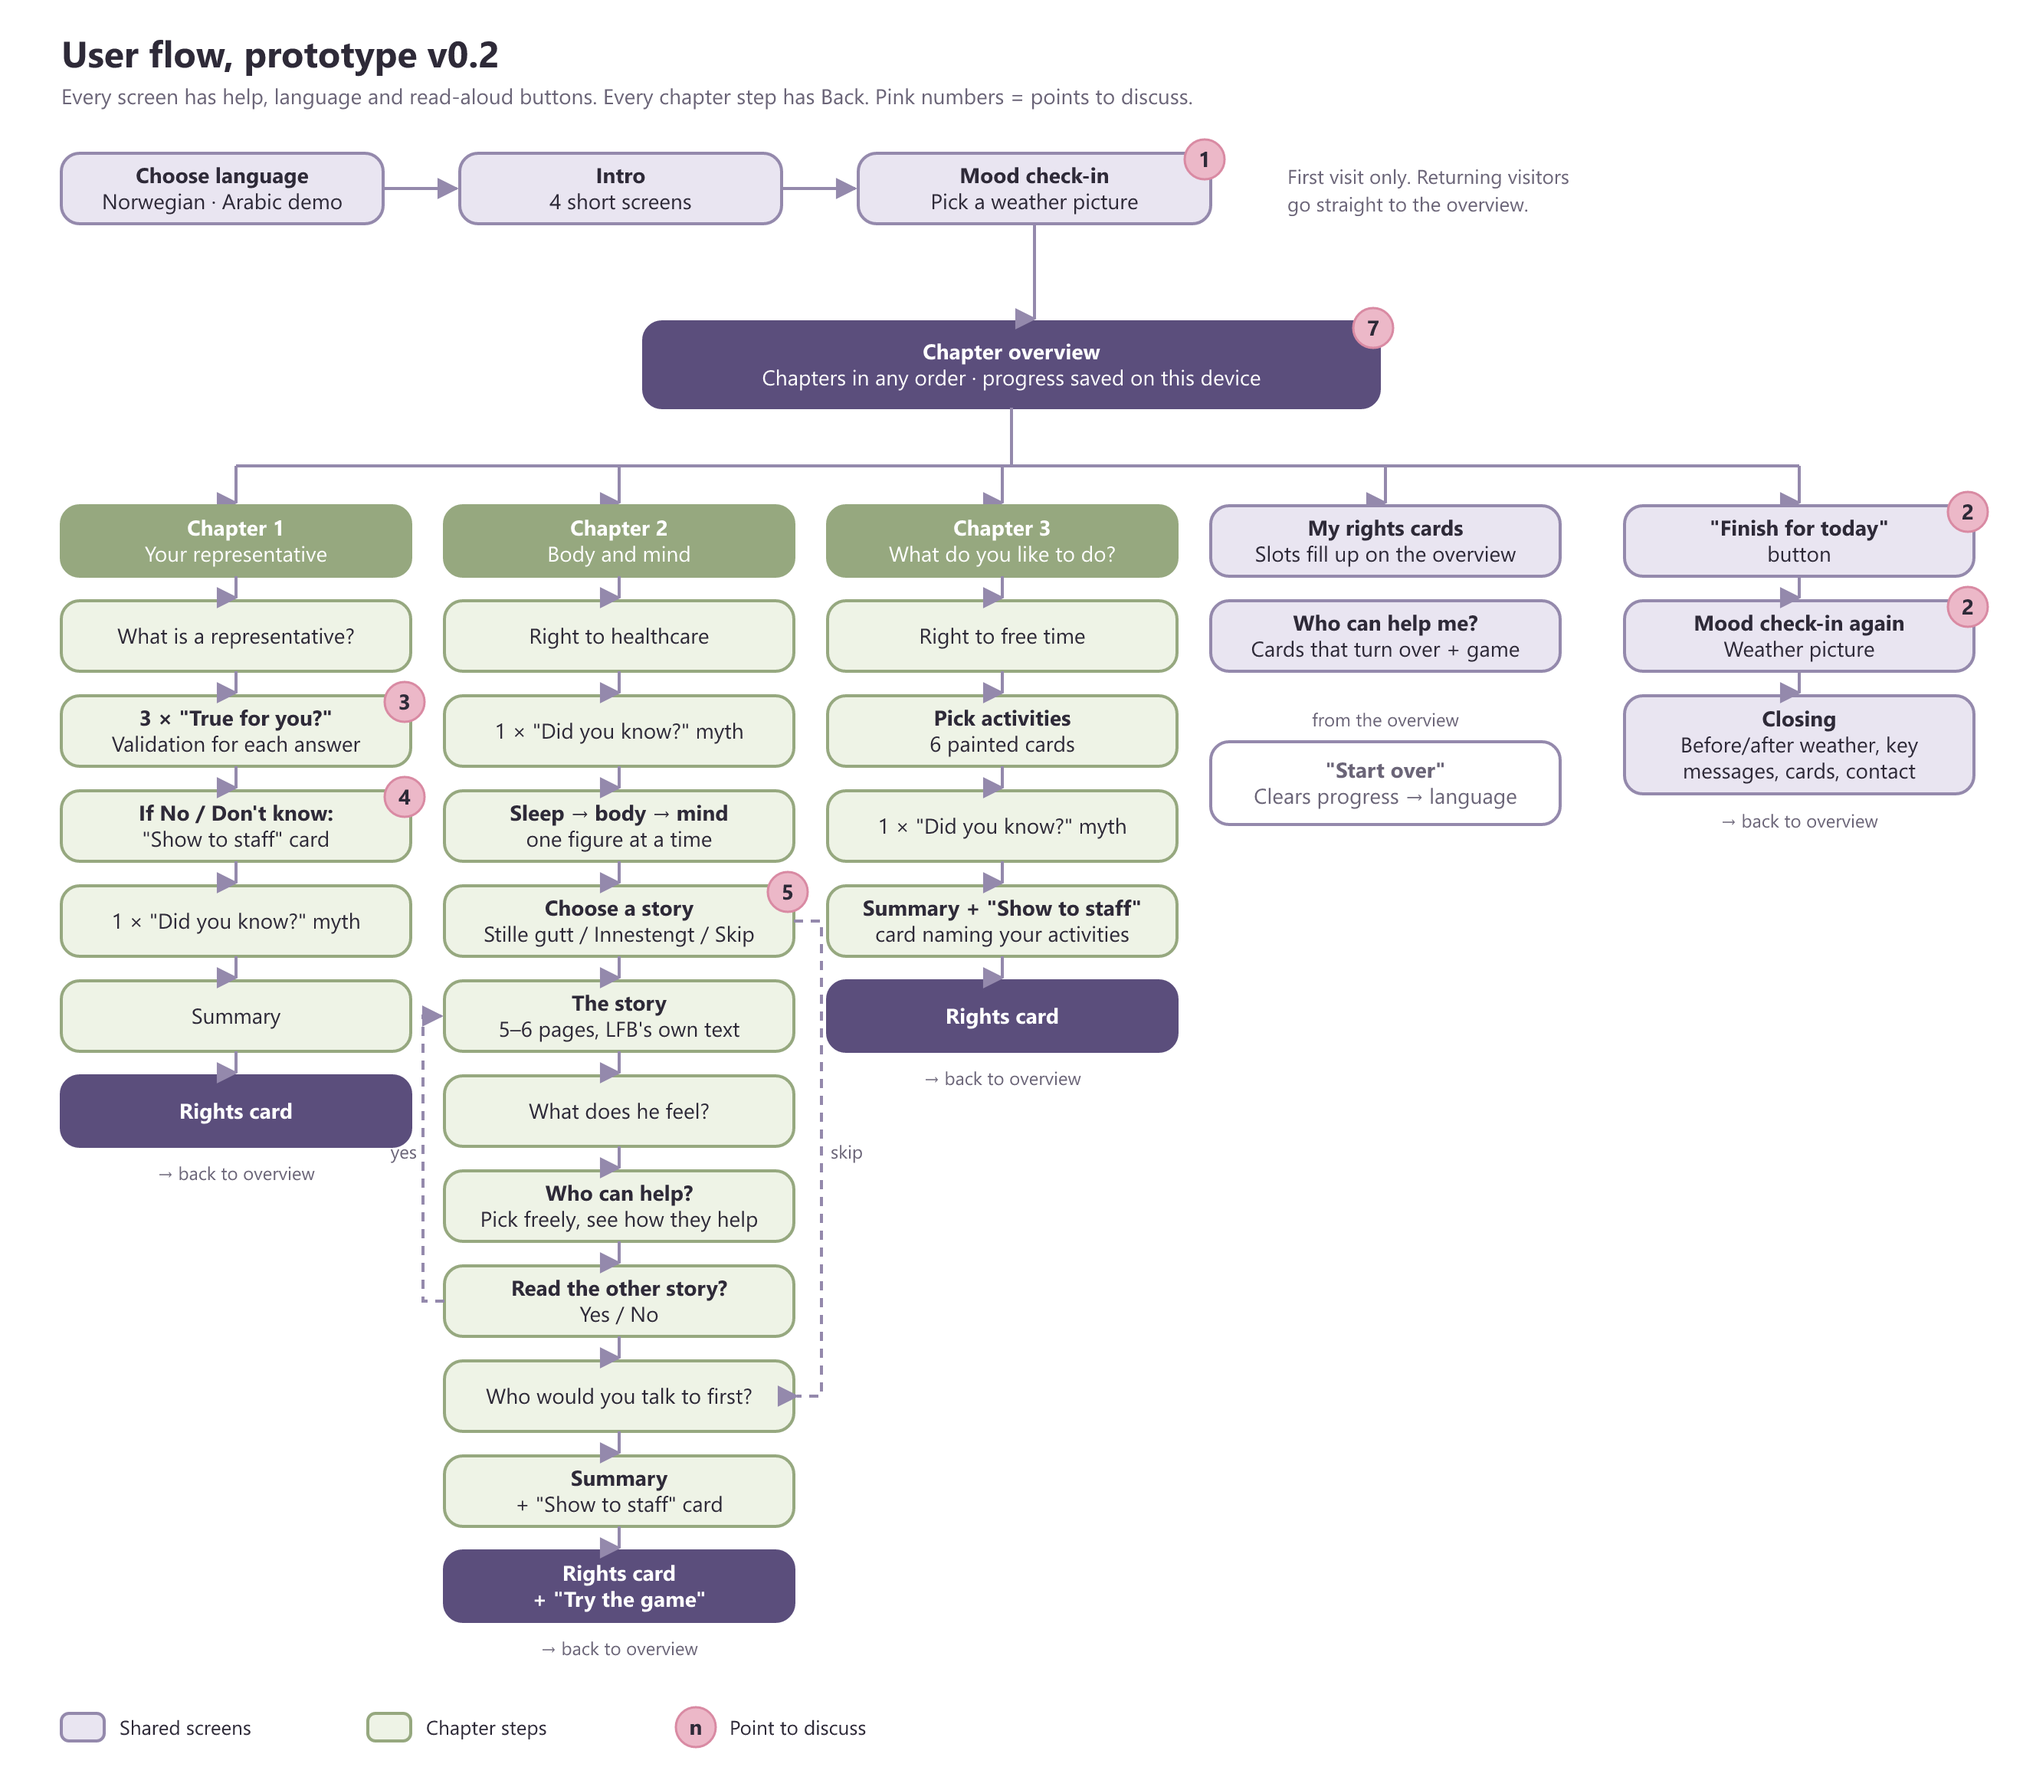
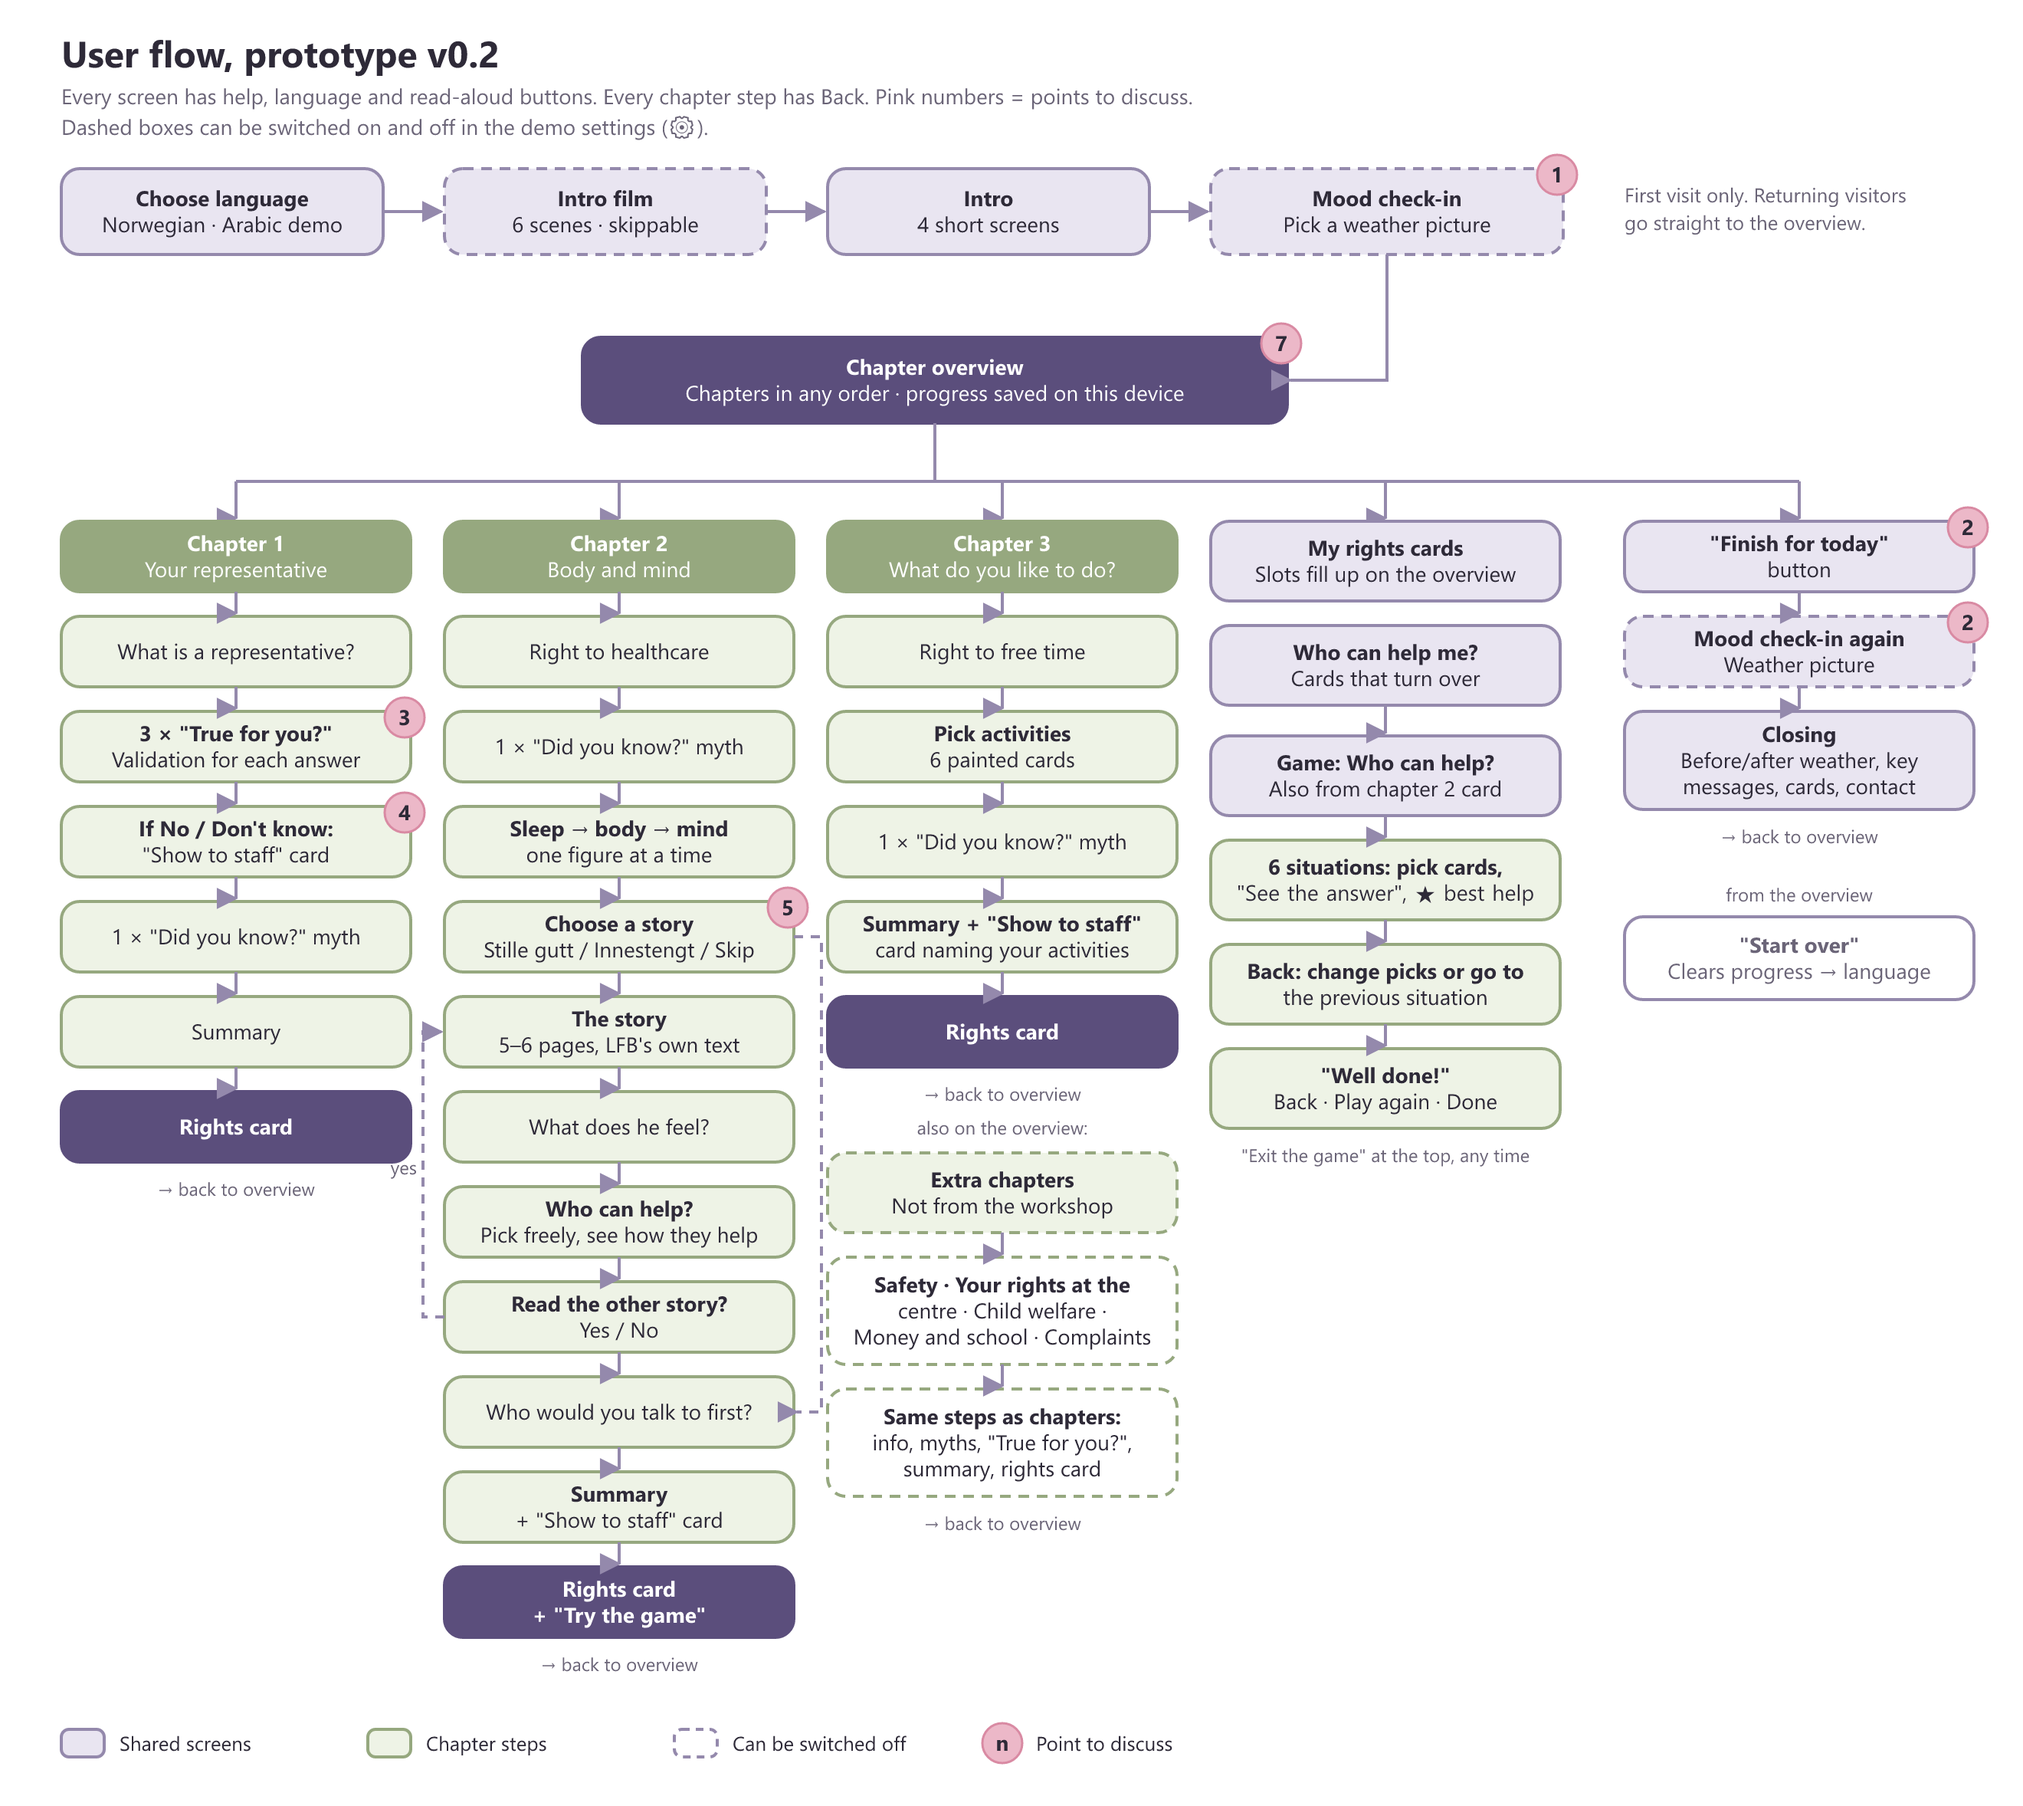
Game: exit button and Back; update the flowchart
- The game now has "Avslutt spillet" at the top and a Back button on
  every situation: Back un-reveals the answer to change picks, then goes
  to the previous situation (picks are kept in memory). The end screen
  has Back, Play again and Done. New string game.exit (also in the sheet).
- Flowchart: intro film, switchable steps drawn dashed, extra chapters,
  the game flow. Also published as SVG and a 4x PNG for a full-size link.

diff --git a/src/screens/HelperGame.jsx b/src/screens/HelperGame.jsx
@@ -9,42 +9,53 @@ const actor = (id) => ACTORS.find((a) => a.id === id)
 // "Who can help?": one situation at a time, pick one or more cards, then see who
 // can help most (with the "when to contact" text from the card back). Other
 // picks are shown as "also good to talk to", never as wrong. No points.
+// Picks are kept per situation (in memory only) so Back shows them again.
 export default function HelperGame({ onBack }) {
   const { t } = useI18n()
   const [i, setI] = useState(0)
-  const [picked, setPicked] = useState([])
-  const [revealed, setRevealed] = useState(false)
+  const [rounds, setRounds] = useState({})
   const done = i >= SITUATIONS.length
   const s = SITUATIONS[i]
+  const { picked = [], revealed = false } = rounds[i] ?? {}
 
-  const toggle = (id) => !revealed && setPicked((p) => (p.includes(id) ? p.filter((x) => x !== id) : [...p, id]))
-  const reveal = () => {
-    setRevealed(true)
-  }
-  const next = () => {
-    setI(i + 1)
-    setPicked([])
-    setRevealed(false)
+  const update = (patch) => setRounds((r) => ({ ...r, [i]: { picked, revealed, ...patch } }))
+  const toggle = (id) => !revealed && update({ picked: picked.includes(id) ? picked.filter((x) => x !== id) : [...picked, id] })
+  const goTo = (n) => {
+    setI(n)
     window.scrollTo({ top: 0 })
   }
   const restart = () => {
-    setI(0)
-    setPicked([])
-    setRevealed(false)
+    setRounds({})
+    goTo(0)
   }
+
+  const exitBar = (
+    <div className="chapter-bar">
+      <button className="btn btn-link" onClick={onBack}>
+        <span className="dir-arrow">←</span> {t('game.exit')}
+      </button>
+      <span className="chapter-name">{t('game.title')}</span>
+    </div>
+  )
 
   if (done) {
     return (
-      <section className="screen screen-center">
-        <img className="illustration" src={img('friends.png')} alt="" />
-        <h1>{t('game.done.title')}</h1>
-        <p className="lead">{t('game.done.text')}</p>
+      <section className="screen">
+        {exitBar}
+        <div className="screen-center">
+          <img className="illustration" src={img('friends.png')} alt="" />
+          <h1>{t('game.done.title')}</h1>
+          <p className="lead">{t('game.done.text')}</p>
+        </div>
         <div className="actions">
+          <button className="btn btn-secondary" onClick={() => goTo(i - 1)}>
+            {t('common.back')}
+          </button>
           <button className="btn btn-secondary" onClick={restart}>
             {t('game.again')}
           </button>
           <button className="btn btn-primary" onClick={onBack}>
-            {t('common.back')}
+            {t('common.done')}
           </button>
         </div>
       </section>
@@ -54,12 +65,7 @@ export default function HelperGame({ onBack }) {
   const also = picked.filter((id) => !s.best.includes(id))
   return (
     <section className="screen">
-      <div className="chapter-bar">
-        <button className="btn btn-link" onClick={onBack}>
-          <span className="dir-arrow">←</span> {t('common.back')}
-        </button>
-        <span className="chapter-name">{t('game.title')}</span>
-      </div>
+      {exitBar}
       <Dots count={SITUATIONS.length} current={i} />
       <span className="label">{t('game.counter', { n: i + 1, total: SITUATIONS.length })}</span>
       <div className="situation" key={s.id}>
@@ -112,12 +118,16 @@ export default function HelperGame({ onBack }) {
       )}
 
       <div className="actions">
+        {/* Back: un-reveal to change the picks, then to the previous situation, then out of the game */}
+        <button className="btn btn-secondary" onClick={revealed ? () => update({ revealed: false }) : i > 0 ? () => goTo(i - 1) : onBack}>
+          {t('common.back')}
+        </button>
         {revealed ? (
-          <button className="btn btn-primary" onClick={next}>
+          <button className="btn btn-primary" onClick={() => goTo(i + 1)}>
             {t('common.next')}
           </button>
         ) : (
-          <button className="btn btn-primary" disabled={!picked.length} onClick={reveal}>
+          <button className="btn btn-primary" disabled={!picked.length} onClick={() => update({ revealed: true })}>
             {t('game.check')}
           </button>
         )}
